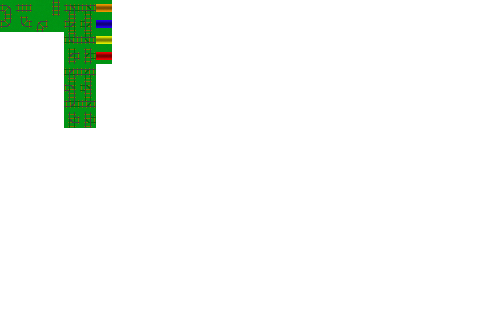
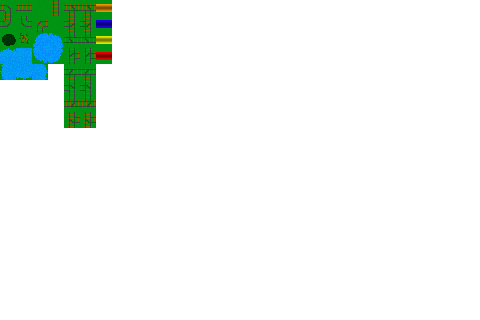
Improve map, add more tiles

Changed region(s): [[0.0, 0.0938, 0.1562, 0.25]]

diff --git a/map/tiles/Trainz.tsx b/map/tiles/Trainz.tsx
@@ -1,5 +1,5 @@
 <?xml version="1.0" encoding="UTF-8"?>
-<tileset version="1.8" tiledversion="1.8.6" name="Trainz" tilewidth="16" tileheight="16" tilecount="9" columns="0">
+<tileset version="1.8" tiledversion="1.8.6" name="Trainz" tilewidth="16" tileheight="16" tilecount="14" columns="0">
  <grid orientation="orthogonal" width="1" height="1"/>
  <tile id="0">
   <image width="16" height="16" source="curve.png"/>
@@ -27,5 +27,20 @@
  </tile>
  <tile id="8">
   <image width="16" height="16" source="depot_red.png"/>
+ </tile>
+ <tile id="9">
+  <image width="16" height="16" source="tree.png"/>
+ </tile>
+ <tile id="10">
+  <image width="16" height="16" source="tree2.png"/>
+ </tile>
+ <tile id="11">
+  <image width="16" height="16" source="water.png"/>
+ </tile>
+ <tile id="12">
+  <image width="16" height="16" source="water_full.png"/>
+ </tile>
+ <tile id="13">
+  <image width="16" height="16" source="water_side.png"/>
  </tile>
 </tileset>
